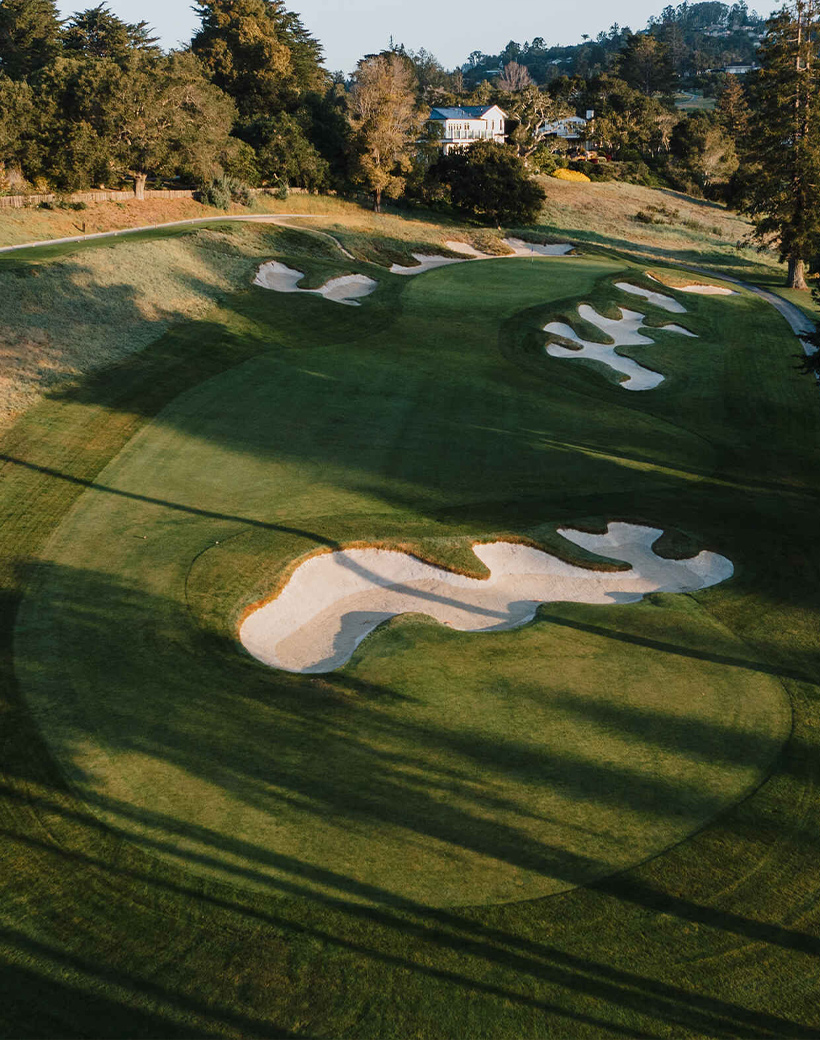
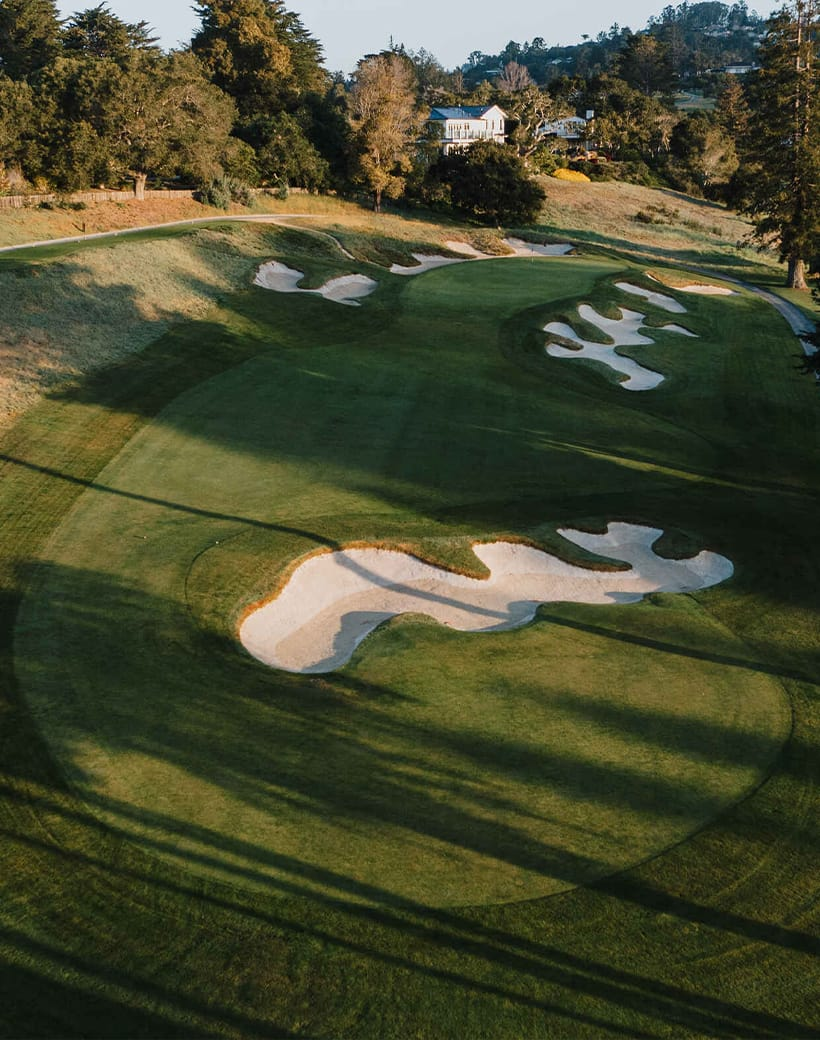
El Sombrero: MacKenzie portrait + fuller home page
- Add a public-domain portrait of Dr. Alister MacKenzie (Library of
  Congress, Bain Collection, pre-1931, no known restrictions), cropped
  from the archival negative and credited in the caption
- Add a third heritage block on the bunkering, a course-facts strip
  (1929 / 18 holes / the 6th / the 16th), and a full-width course
  panorama band carrying a MacKenzie quote from Golf Architecture (1920)
- Optimize course photos: ~1.5MB -> ~611KB total for mobile

Changed region(s): [[0.5488, 0.1231, 0.5793, 0.1538]]

diff --git a/components/sombrero/content.ts b/components/sombrero/content.ts
@@ -201,6 +201,12 @@ td.num,th.num{text-align:right;}
 .histband .a{font-family:var(--disp);text-transform:uppercase;letter-spacing:.22em;font-size:13px;color:#e7c877;margin-top:16px;}
 
 .heritage{align-items:center;}
+.coursefacts{display:grid;grid-template-columns:repeat(4,1fr);gap:1px;background:var(--rule);border:1px solid var(--rule);margin-top:34px;}
+.coursefacts>div{background:var(--panel);padding:20px 14px;text-align:center;}
+.coursefacts .cf-n{font-family:var(--disp);font-size:30px;color:var(--green);line-height:1;font-weight:600;}
+.coursefacts .cf-l{font-family:var(--disp);text-transform:uppercase;letter-spacing:.16em;font-size:11px;color:var(--gold);margin-top:8px;}
+.coursefacts .cf-s{font-size:12.5px;color:var(--ink-soft);font-style:italic;margin-top:5px;line-height:1.4;}
+@media (max-width:760px){.coursefacts{grid-template-columns:1fr 1fr;}}
 .histphoto{background:var(--panel);border:1px solid var(--rule);padding:10px;box-shadow:var(--shadow);}
 .histphoto img{width:100%;height:auto;display:block;filter:saturate(1.03) contrast(1.02);}
 .histphoto .cap{display:block;text-align:center;font-family:var(--disp);font-style:italic;font-size:14px;color:var(--ink-soft);padding:9px 6px 3px;}
@@ -302,8 +308,8 @@ footer.site .fine{color:#9fac8c;margin-top:24px;font-size:13px;}
       </div>
       <div class="grid g2 heritage">
         <div class="histphoto">
-          <img src="/sombrero/img/course-bunkers.jpg" alt="Alister MacKenzie's cascading bunkers at Pasatiempo Golf Club" loading="lazy">
-          <span class="cap">MacKenzie's cascading bunkers &mdash; unmistakably Pasatiempo</span>
+          <img src="/sombrero/img/mackenzie-portrait.jpg" alt="Dr. Alister MacKenzie, golf course architect, early 1900s" loading="lazy">
+          <span class="cap">Dr. Alister MacKenzie &middot; Library of Congress</span>
         </div>
         <div>
           <h4>The Architect</h4>
@@ -324,8 +330,37 @@ footer.site .fine{color:#9fac8c;margin-top:24px;font-size:13px;}
           <span class="cap">Terraced bunkers guarding a MacKenzie green</span>
         </div>
       </div>
+
+      <div class="grid g2 heritage" style="margin-top:26px;">
+        <div class="histphoto">
+          <img src="/sombrero/img/course-bunkers.jpg" alt="Cascading MacKenzie bunkers at Pasatiempo Golf Club" loading="lazy">
+          <span class="cap">Cascading sand &mdash; a MacKenzie signature</span>
+        </div>
+        <div>
+          <h4>The Bunkering</h4>
+          <p>Nothing gives Pasatiempo away faster than its sand. MacKenzie's bunkers sprawl and finger their way into the fairways with ragged, wind-blown edges &mdash; built to look as though the land made them, not a crew with shovels.</p>
+          <p>They are as strategic as they are beautiful: each one asks a question off the tee and again on the approach, rewarding the player who picks a line and commits to it &mdash; exactly the sort of decision match play punishes and rewards.</p>
+        </div>
+      </div>
+
+      <div class="coursefacts">
+        <div><div class="cf-n">1929</div><div class="cf-l">Opened</div><div class="cf-s">September 8th</div></div>
+        <div><div class="cf-n">18</div><div class="cf-l">MacKenzie Holes</div><div class="cf-s">His California home course</div></div>
+        <div><div class="cf-n">6th</div><div class="cf-l">The Doctor's Fairway</div><div class="cf-s">Where he lived until 1934</div></div>
+        <div><div class="cf-n">16th</div><div class="cf-l">The Famous One</div><div class="cf-s">Among the world's great par-4s</div></div>
+      </div>
     </div>
   </section>
+
+  <!-- Course panorama band -->
+  <div class="histband" style="height:420px;">
+    <div class="bg" style="background-image:url('/sombrero/img/course-wide.jpg')"></div>
+    <div class="veil"></div>
+    <div class="inner">
+      <div class="q">&ldquo;The chief object of every golf course architect worth his salt is to imitate the beauties of nature so closely as to make his work indistinguishable from nature itself.&rdquo;</div>
+      <div class="a">Dr. Alister MacKenzie &middot; Golf Architecture, 1920</div>
+    </div>
+  </div>
 
   <!-- Nav cards -->
   <section class="block">
